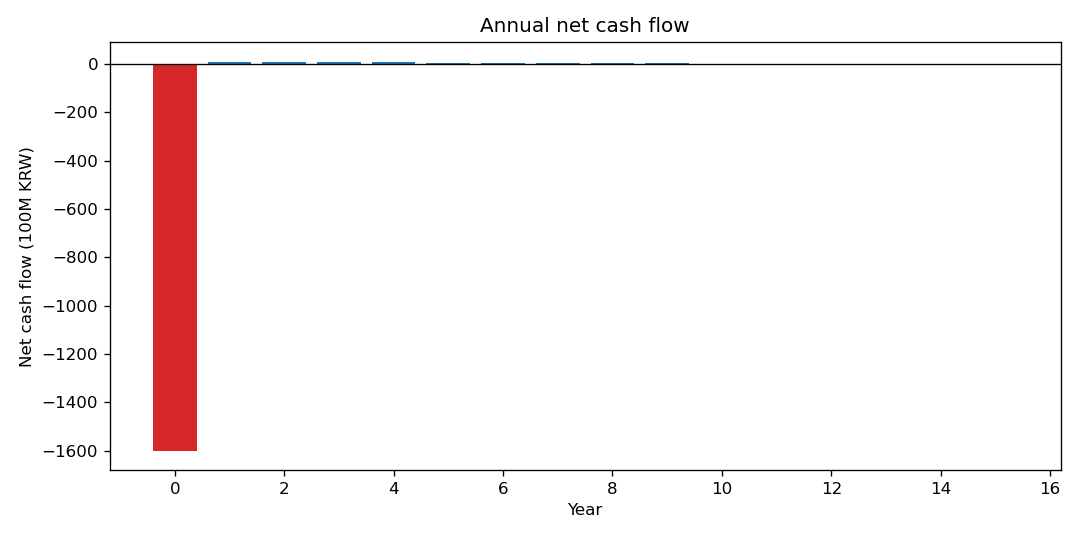
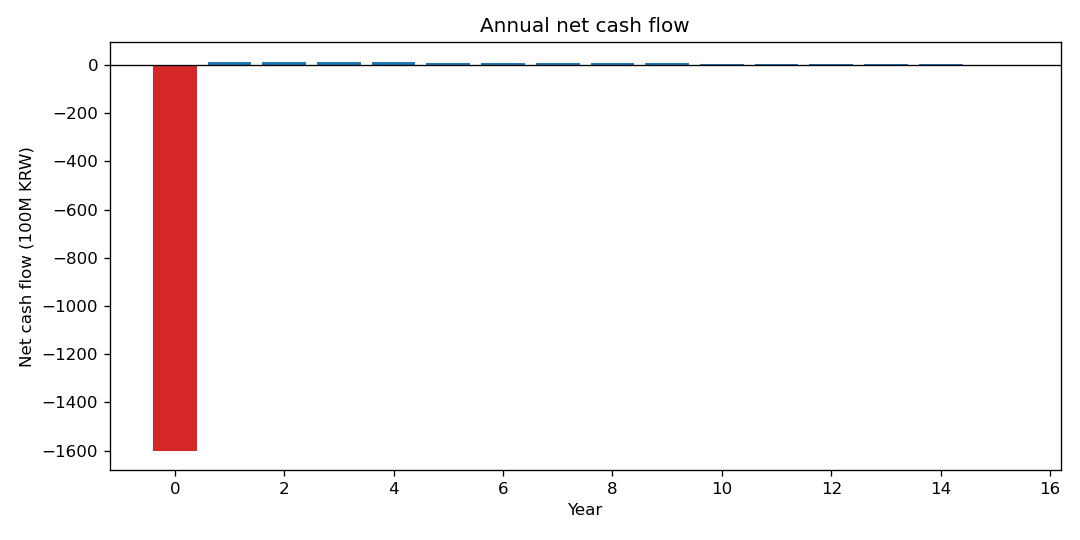
Reinforce: real-data interfaces, break-even levers, sign-robustness
- data_prep.py: build real hour-of-day baseline from working-paper panel
- elasticities.csv: interface for real hour-specific regression coefficients
- breakeven.py: closed-form break-even capex / arbitrage multiple / stacked revenue
- run: elasticity sign-robustness scenarios (contested h13 sign moves NPV <0.5%)
- baseline recalibrated to KPX 2024 mainland average (~126 KRW/kWh)
- README/NARRATIVE updated with break-even and robustness findings

diff --git a/src/breakeven.py b/src/breakeven.py
@@ -1,0 +1,61 @@
+"""Closed-form break-even levers.
+
+Arbitrage alone gives a negative NPV, so the useful questions are *how far off*
+and *what closes the gap*. Each function below is solved analytically from the
+same NPV identity the pipeline computes numerically:
+
+    NPV = -capex + daily_net * K  -  om_pct * capex * A
+
+where  A = sum_t 1/(1+r)^t                         (annuity factor)
+       K = days * sum_t (1-deg)^(t-1) / (1+r)^t     (PV of revenue per daily KRW)
+"""
+
+import numpy as np
+
+KWH_PER_MWH = 1_000
+
+
+def _years(a: dict) -> np.ndarray:
+    return np.arange(1, a["project_life_years"] + 1)
+
+
+def annuity_factor(a: dict) -> float:
+    y = _years(a)
+    return float((1 / (1 + a["discount_rate"]) ** y).sum())
+
+
+def revenue_pv_per_daily_krw(a: dict) -> float:
+    """K: multiply by daily net revenue to get PV of lifetime gross revenue."""
+    y = _years(a)
+    df = 1 / (1 + a["discount_rate"]) ** y
+    keep = (1 - a["annual_degradation"]) ** (y - 1)
+    return float(a["operating_days_per_year"] * (keep * df).sum())
+
+
+def _capex_total_krw(a: dict) -> float:
+    return a["capex_per_kwh_krw"] * a["energy_mwh"] * KWH_PER_MWH
+
+
+def breakeven_capex_per_kwh(daily_net_krw: float, a: dict) -> float:
+    """Capex (KRW/kWh) at which NPV = 0, holding revenue fixed."""
+    K, A = revenue_pv_per_daily_krw(a), annuity_factor(a)
+    capex_total_be = daily_net_krw * K / (1 + a["om_pct_of_capex_per_year"] * A)
+    return capex_total_be / (a["energy_mwh"] * KWH_PER_MWH)
+
+
+def breakeven_daily_revenue_multiplier(daily_net_krw: float, a: dict) -> float:
+    """How many times larger daily arbitrage must be for NPV = 0."""
+    K, A = revenue_pv_per_daily_krw(a), annuity_factor(a)
+    capex = _capex_total_krw(a)
+    daily_be = capex * (1 + a["om_pct_of_capex_per_year"] * A) / K
+    return daily_be / daily_net_krw
+
+
+def stacked_revenue_needed_per_kw_year(npv_base_krw: float, a: dict) -> float:
+    """Constant extra annual revenue (KRW/kW-yr) that lifts NPV to 0.
+
+    Stands in for capacity-market / ancillary-service income a real BESS stacks
+    on top of arbitrage. Positive when the base NPV is negative.
+    """
+    R = -npv_base_krw / annuity_factor(a)        # KRW per year, project-wide
+    return R / (a["power_mw"] * 1_000)           # KRW per kW-year

diff --git a/run_phase3.py b/run_phase3.py
@@ -3,6 +3,8 @@
 Pipeline:
     assumptions -> price scenario -> daily arbitrage -> cash flows -> NPV / IRR
 
+plus break-even levers and an elasticity sign-robustness check.
+
 Run from the project root:
     python3 run_phase3.py
 """
@@ -15,27 +17,27 @@ import matplotlib.pyplot as plt
 import pandas as pd
 
 from src.assumptions import get_assumptions
-from src.price_scenario import (load_baseline_smp, build_hourly_elasticities,
-                                apply_solar_scenario)
+from src.price_scenario import load_baseline_smp, load_elasticities, apply_solar_scenario
 from src.arbitrage import daily_arbitrage_revenue
 from src.cashflow import build_cashflows
 from src.valuation import summarize
+from src.breakeven import (breakeven_capex_per_kwh,
+                           breakeven_daily_revenue_multiplier,
+                           stacked_revenue_needed_per_kw_year)
 
 HERE = os.path.dirname(os.path.abspath(__file__))
 DATA_PATH = os.path.join(HERE, "data", "baseline_smp_hourly.csv")
+ELAST_PATH = os.path.join(HERE, "data", "elasticities.csv")
 OUT_DIR = os.path.join(HERE, "outputs")
 
 EOK = 1e8  # 1 억 = 100,000,000 KRW -> report large won figures in 억 (oeok)
 
 
-def run_pipeline(assumptions: dict) -> dict:
-    """One full pass; returns every intermediate object for inspection."""
+def run_pipeline(assumptions: dict, elasticities=None) -> dict:
+    """One full pass. Pass `elasticities` to override the CSV (used for scenarios)."""
     baseline = load_baseline_smp(DATA_PATH)
-    elasticities = build_hourly_elasticities(
-        assumptions["elasticity_anchors"],
-        assumptions["elasticity_iv_average"],
-        baseline.index,
-    )
+    if elasticities is None:
+        elasticities = load_elasticities(ELAST_PATH)
     price = apply_solar_scenario(baseline, elasticities,
                                  assumptions["solar_growth_pct"])
     arbitrage = daily_arbitrage_revenue(price["scenario_smp"], assumptions)
@@ -67,6 +69,39 @@ def print_summary(assumptions: dict, result: dict) -> None:
     print("=" * 64)
 
 
+def print_breakeven(assumptions: dict, result: dict) -> None:
+    daily = result["arbitrage"]["net_revenue_krw"]
+    npv = result["metrics"]["npv_krw"]
+    be_capex = breakeven_capex_per_kwh(daily, assumptions)
+    mult = breakeven_daily_revenue_multiplier(daily, assumptions)
+    stack = stacked_revenue_needed_per_kw_year(npv, assumptions)
+    print("\nBreak-even levers (what would make NPV = 0):")
+    print(f"  Capex must fall to        : {be_capex:>10,.0f} KRW/kWh "
+          f"(now {assumptions['capex_per_kwh_krw']:,})")
+    print(f"  Daily arbitrage must be   : {mult:>10.1f} x  larger")
+    print(f"  OR stacked revenue of     : {stack:>10,.0f} KRW/kW-yr "
+          f"(capacity / ancillary)")
+
+
+def sign_robustness(assumptions: dict) -> pd.DataFrame:
+    """How much does the contested hour-13 sign actually move the investment?"""
+    base = load_elasticities(ELAST_PATH)
+    flipped = base.copy()
+    flipped.loc[13] = -abs(base.loc[13])                       # force intuitive (-)
+    uniform = pd.Series(assumptions["elasticity_iv_average"],
+                        index=base.index, name="elasticity")
+    variants = {"as-estimated (h13 +)": base,
+                "h13 flipped (-)": flipped,
+                "uniform IV average": uniform}
+    rows = []
+    for name, el in variants.items():
+        r = run_pipeline(assumptions, el)
+        rows.append({"elasticity_scenario": name,
+                     "daily_rev_eok": r["arbitrage"]["net_revenue_krw"] / EOK,
+                     "npv_eok": r["metrics"]["npv_krw"] / EOK})
+    return pd.DataFrame(rows)
+
+
 def sensitivity(base_assumptions: dict, key: str, values: list) -> pd.DataFrame:
     """Re-run the whole pipeline while sweeping one assumption."""
     rows = []
@@ -79,8 +114,7 @@ def sensitivity(base_assumptions: dict, key: str, values: list) -> pd.DataFrame:
 
 
 def plot_price_curve(assumptions: dict, result: dict) -> str:
-    price = result["price"]
-    arb = result["arbitrage"]
+    price, arb = result["price"], result["arbitrage"]
     fig, ax = plt.subplots(figsize=(9, 4.5))
     ax.plot(price.index, price["baseline_smp"], "--", label="Baseline SMP")
     ax.plot(price.index, price["scenario_smp"], "-",
@@ -112,6 +146,10 @@ def main() -> None:
     a = get_assumptions()
     result = run_pipeline(a)
     print_summary(a, result)
+    print_breakeven(a, result)
+
+    print("\nElasticity sign-robustness (does the contested h13 sign change the call?):")
+    print(sign_robustness(a).to_string(index=False))
 
     print("\nSensitivity - solar growth:")
     print(sensitivity(a, "solar_growth_pct", [0.0, 0.25, 0.50, 1.00])

diff --git a/src/data_prep.py b/src/data_prep.py
@@ -1,0 +1,49 @@
+"""Build the real hour-of-day baseline SMP from your working-paper panel.
+
+The shipped `data/baseline_smp_hourly.csv` is a stylized curve calibrated to the
+KPX 2024 mainland average (~126 KRW/kWh). To replace it with *real* data, drop
+your hourly panel (the one behind the regression) as a CSV and run:
+
+    python3 -m src.data_prep path/to/panel.csv --smp-col smp --hour-col hour
+
+It averages SMP by hour-of-day and overwrites data/baseline_smp_hourly.csv, so
+the rest of the pipeline immediately runs on your real prices.
+"""
+
+import argparse
+import os
+
+import pandas as pd
+
+HERE = os.path.dirname(os.path.abspath(__file__))
+DEFAULT_OUT = os.path.join(HERE, "..", "data", "baseline_smp_hourly.csv")
+
+
+def build_baseline_from_panel(panel: pd.DataFrame, smp_col: str,
+                              hour_col: str) -> pd.Series:
+    """Hour-of-day mean SMP (KRW/kWh), indexed 1..24."""
+    baseline = (panel.groupby(hour_col)[smp_col]
+                     .mean()
+                     .rename("smp_krw_per_kwh")
+                     .rename_axis("hour")
+                     .sort_index())
+    return baseline
+
+
+def main() -> None:
+    ap = argparse.ArgumentParser(description=__doc__)
+    ap.add_argument("panel_csv")
+    ap.add_argument("--smp-col", default="smp")
+    ap.add_argument("--hour-col", default="hour")
+    ap.add_argument("--out", default=DEFAULT_OUT)
+    args = ap.parse_args()
+
+    panel = pd.read_csv(args.panel_csv)
+    baseline = build_baseline_from_panel(panel, args.smp_col, args.hour_col)
+    baseline.to_frame().reset_index().to_csv(args.out, index=False)
+    print(f"Wrote {len(baseline)} hourly rows -> {os.path.normpath(args.out)}")
+    print(f"Mean SMP: {baseline.mean():.1f} KRW/kWh")
+
+
+if __name__ == "__main__":
+    main()

diff --git a/src/price_scenario.py b/src/price_scenario.py
@@ -29,6 +29,16 @@ def build_hourly_elasticities(anchors: dict, default: float,
     return elasticities
 
 
+def load_elasticities(csv_path: str) -> pd.Series:
+    """Load a full 24-hour elasticity vector from CSV (hour, elasticity).
+
+    This is the interface for *real* regression output: replace the values in
+    data/elasticities.csv with your estimated hour-of-day coefficients.
+    """
+    df = pd.read_csv(csv_path)
+    return df.set_index("hour")["elasticity"]
+
+
 def apply_solar_scenario(baseline_smp: pd.Series, elasticities: pd.Series,
                          solar_growth_pct: float) -> pd.DataFrame:
     """Reshape the baseline curve given a % growth in solar generation."""

diff --git a/README.md b/README.md
@@ -6,25 +6,52 @@ to solar generation. This project asks the business question that follows:
 **is a 100MW / 4h battery in the Yeongnam region worth building on price
 arbitrage alone?**
 
-> ⚠️ Portfolio prototype. Financial inputs and the baseline price curve are
-> stylized placeholders (see [Caveats](#caveats)); the *method* is the point.
+> ⚠️ Portfolio prototype. The hourly baseline is calibrated to the KPX 2024
+> mainland average (~126 KRW/kWh) but is **representative, not the raw series**;
+> financial inputs are placeholders. The *method* is the deliverable. See
+> [Data status](#data-status) for how to drop in real data.
 
 ## TL;DR result
 
 | Metric | Value |
 |---|---|
 | System | 100 MW / 4 h (400 MWh) |
-| Daily arbitrage spread | ~46 KRW/kWh (charge ≈100, discharge ≈146) |
-| Daily net revenue | ~0.12억 KRW |
+| Arbitrage spread | ~50 KRW/kWh (charge ≈107, discharge ≈156) |
+| Daily net revenue | ~0.13억 KRW |
 | Capex | ~1,600억 KRW |
-| **NPV @ 7%** | **≈ −1,553억 KRW** |
-| IRR | ≈ −39% |
+| **NPV @ 7%** | **≈ −1,523억 KRW** |
+| IRR | ≈ −27% |
 
 **Energy arbitrage alone does not justify the capex** — a realistic, defensible
-finding. The value of the project is quantifying *how far* it misses and *which
-levers* (capex, price spread, stacked revenue) would close the gap.
+finding. The contribution is quantifying *how far* it misses and *which levers*
+would close it.
 
 ![Hourly SMP and BESS dispatch](outputs/price_curve.png)
+
+## Break-even levers (what would make NPV = 0)
+
+| Lever | Required | vs. now |
+|---|---|---|
+| Capex | ~78,000 KRW/kWh | 5x below the assumed 400,000 |
+| Daily arbitrage | ~5.1x larger | spread far beyond the duck curve |
+| Stacked revenue | ~167,000 KRW/kW-yr | capacity / ancillary on top of arbitrage |
+
+The takeaway lines up with industry reality: utility batteries don't pencil out
+on arbitrage alone; they stack capacity and ancillary-service revenue.
+
+## Sign-robustness (turning the open question into an answer)
+
+My hour-13 elasticity has a counter-intuitive positive sign. Rather than hide
+it, the model quantifies how much it matters:
+
+| Elasticity scenario | NPV |
+|---|---|
+| as-estimated (h13 +) | −1,523억 |
+| h13 sign flipped (−)  | −1,516억 |
+| uniform IV average    | −1,520억 |
+
+The investment conclusion moves <0.5%. **The contested sign matters for the
+paper, not for the business call** — capex and the overall spread dominate.
 
 ## How it works
 
@@ -45,11 +72,13 @@ the daily curve and the arbitrage spread.
 | Module | Responsibility |
 |---|---|
 | `src/assumptions.py`    | All inputs in one place, units in the key names |
+| `src/data_prep.py`      | Build the real hour-of-day baseline from your panel CSV |
 | `src/price_scenario.py` | Reshape baseline SMP via hourly elasticities |
 | `src/arbitrage.py`      | Pick charge/discharge hours, daily net revenue |
 | `src/cashflow.py`       | Capex, O&M, degradation -> annual cash flows |
 | `src/valuation.py`      | NPV, IRR, payback |
-| `run_phase3.py`         | Orchestrate, print summary, sensitivities, plots |
+| `src/breakeven.py`      | Closed-form break-even capex / revenue / stacking |
+| `run_phase3.py`         | Orchestrate: summary, break-even, robustness, plots |
 
 ## Run
 
@@ -58,19 +87,16 @@ pip install -r requirements.txt
 python3 run_phase3.py
 ```
 
-Console prints a summary + two sensitivity tables; PNGs are written to `outputs/`.
+## Data status
 
-## Caveats
-
-- Financial inputs in `assumptions.py` are placeholders (`# TODO`).
-- `data/baseline_smp_hourly.csv` is a stylized duck-curve, not 2024 KPX data.
-- The hour-13 elasticity sign (`+0.0496`) contradicts the usual "solar lowers
-  midday price" intuition and must be reconciled with the regression output.
-- Energy-arbitrage-only economics ignore capacity / ancillary-service revenue,
-  which real BESS projects stack on top.
+| Input | Current | How to make it real |
+|---|---|---|
+| `data/baseline_smp_hourly.csv` | Stylized, calibrated to KPX 2024 avg (~126) | `python3 -m src.data_prep your_panel.csv --smp-col smp --hour-col hour` |
+| `data/elasticities.csv` | IV average + 2 anchors (13, 24) | Replace with your estimated hour-of-day coefficients |
+| `src/assumptions.py` (costs) | Industry-plausible placeholders (`# TODO`) | Vendor quotes / project data |
 
 ## Context
 
 Business extension of a working paper, *"Does Solar Generation Lower the Korean
-SMP?"* (IV / 2SLS on a 2024 hourly regional panel). This repo is the "academic
-result → business case" layer.
+SMP?"* (IV / 2SLS on a 2024 hourly regional panel, 16 regions). This repo is the
+"academic result → business case" layer.

diff --git a/NARRATIVE.md b/NARRATIVE.md
@@ -58,9 +58,18 @@ into the cash-flow and NPV calc.
 
 **"The NPV is negative — so it's a bad project?"**
 On *energy arbitrage alone*, yes — and that matches reality: utility batteries
-rarely pencil out on arbitrage by itself. The model's job was to quantify the gap
-and the levers. Break-even needs lower capex, a wider spread, or stacked
-capacity/ancillary revenue, which I scoped as the next extension.
+rarely pencil out on arbitrage by itself. I quantified the gap with closed-form
+break-even levers: capex would need to fall ~5x (to ~78,000 KRW/kWh), or daily
+arbitrage be ~5x larger, or ~167,000 KRW/kW-yr of stacked capacity/ancillary
+revenue. So the project isn't "bad" — it's "arbitrage-only is insufficient, and
+here's exactly how much more is needed."
+
+**"How sensitive is the conclusion to that contested hour-13 coefficient?"**
+I ran it three ways — as-estimated, with the sign flipped, and with a uniform
+average elasticity — and NPV moved less than 0.5%. So the contested sign is an
+important academic question but immaterial to the investment call; capex and the
+overall spread dominate. I like that the model lets me *say that with a number*
+rather than hand-wave.
 
 **"Your 1pm elasticity is positive — doesn't solar lower midday prices?"**
 That's exactly the sign I'm skeptical of. It may be an artifact of the omitted